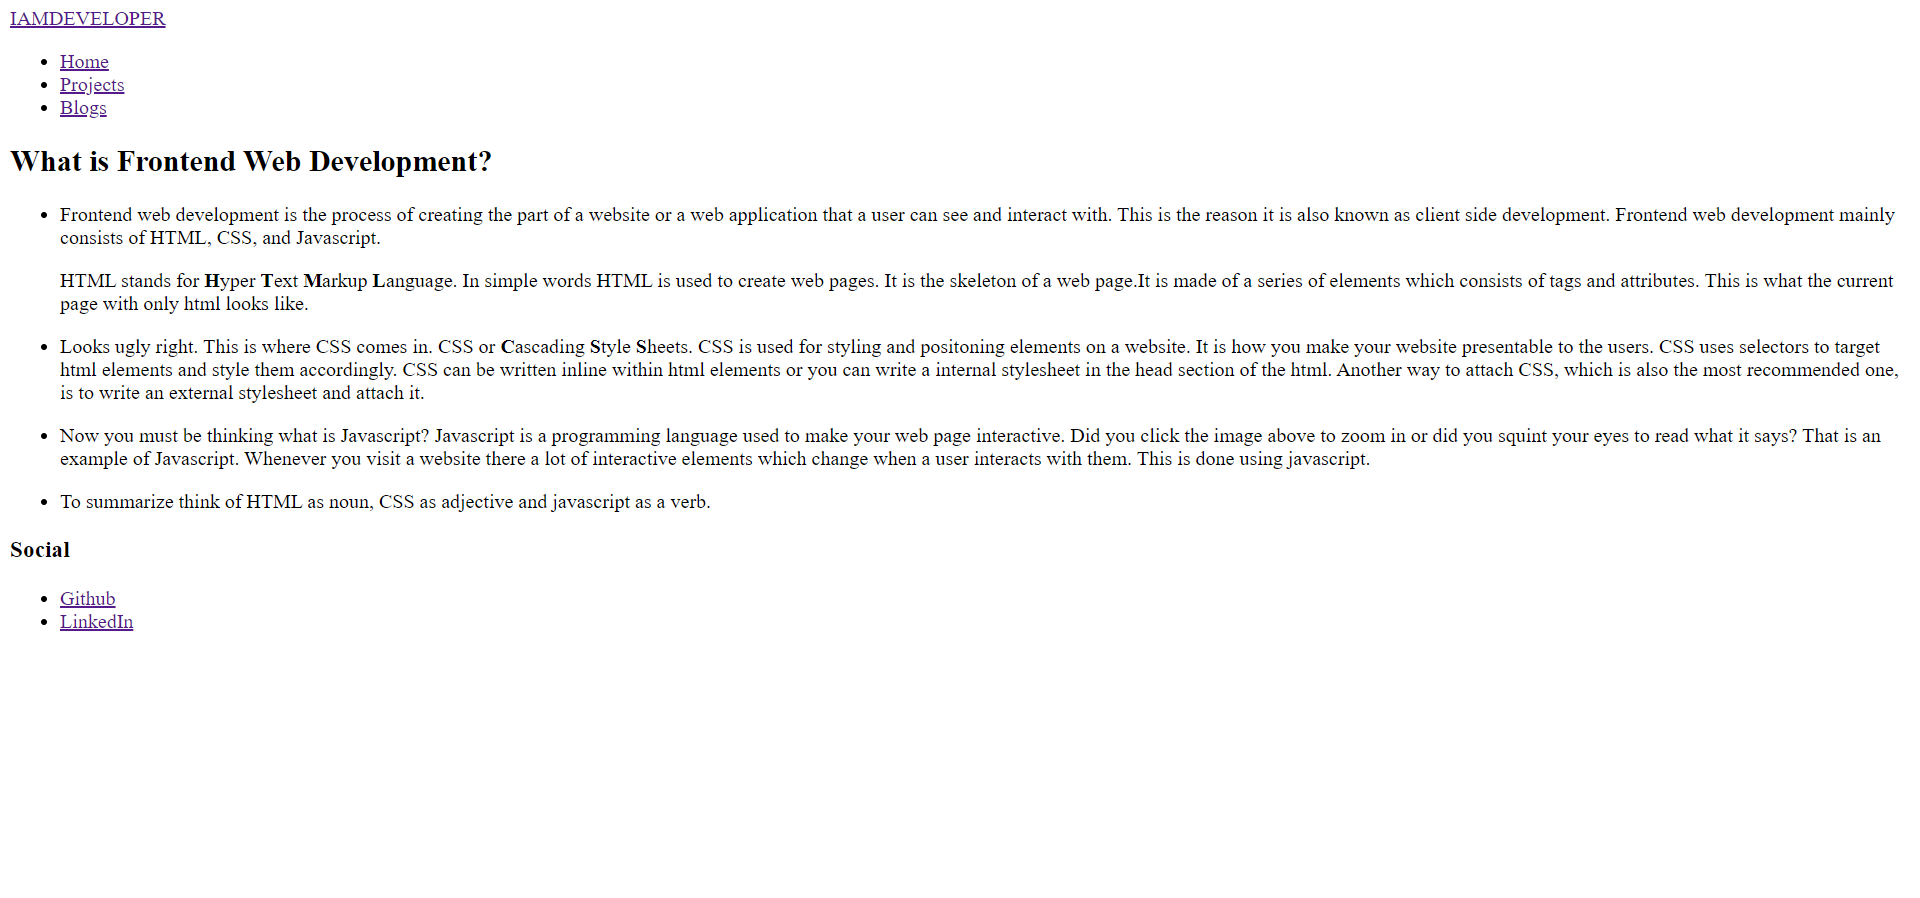
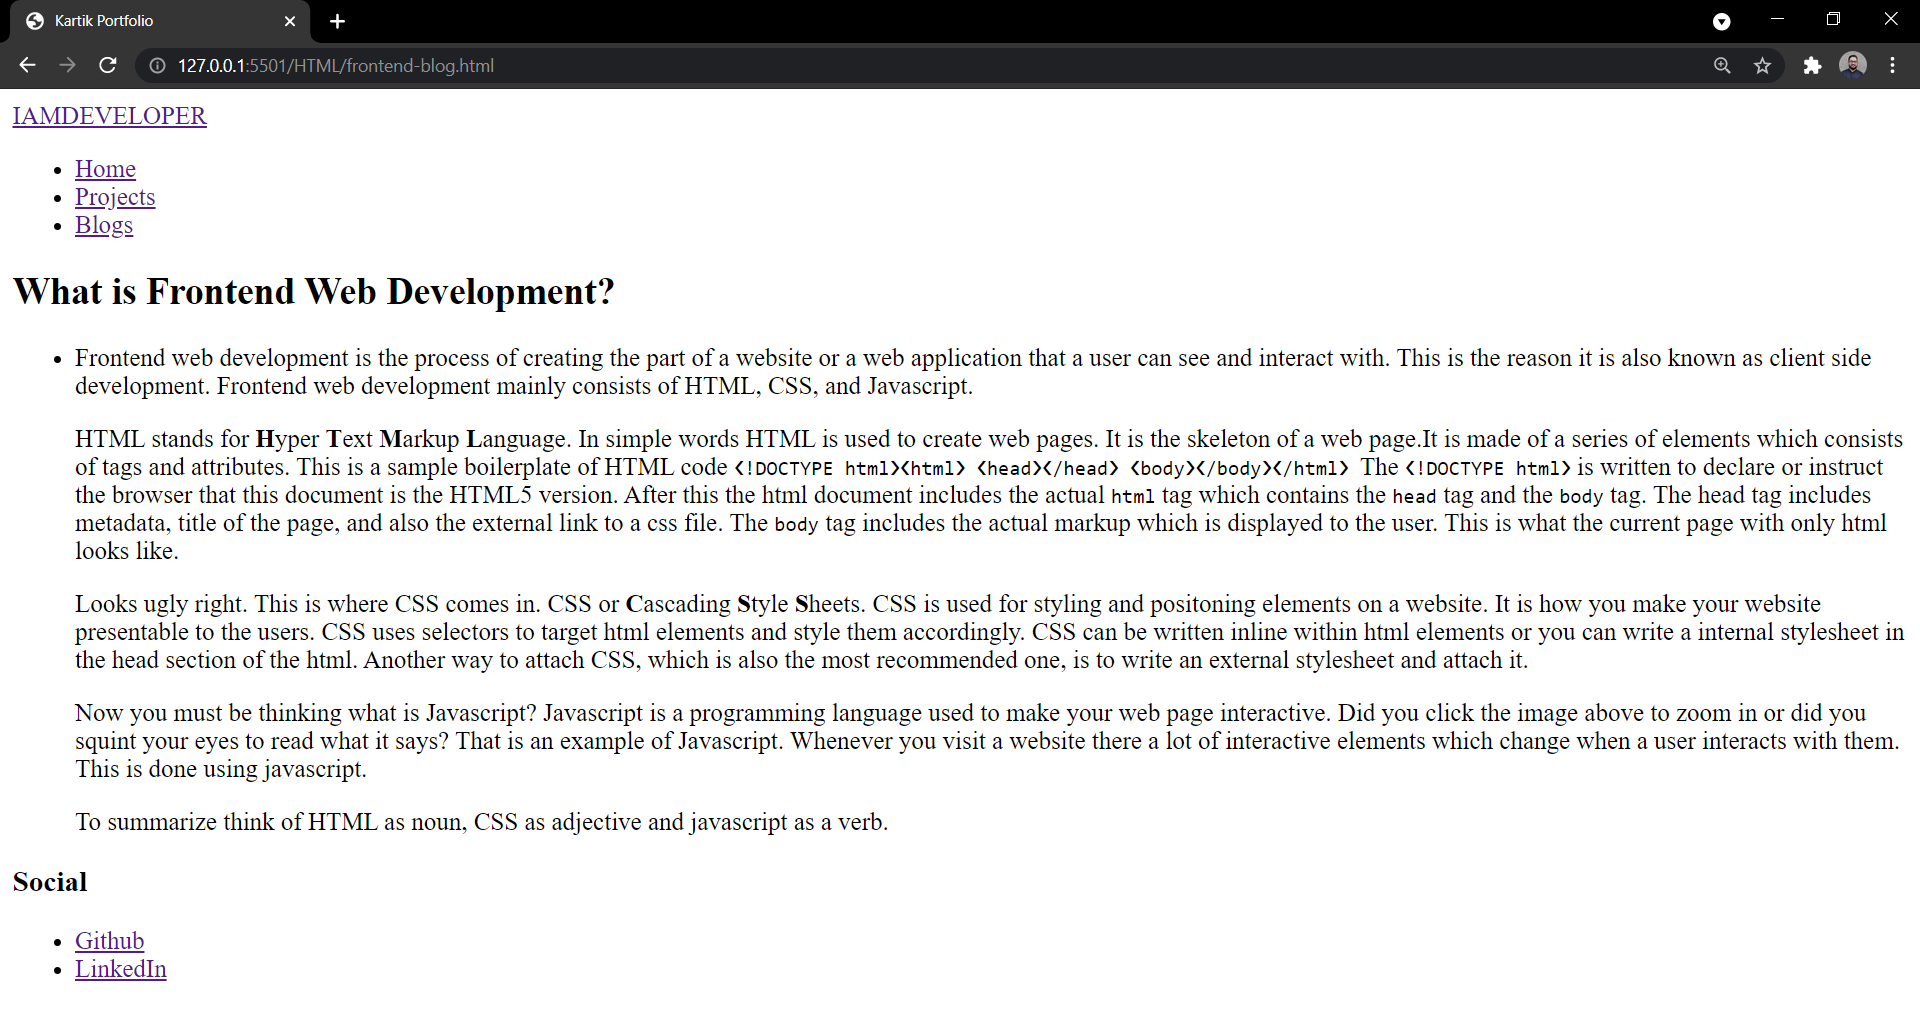
docs
edited frontend blog

Changed region(s): [[0.0, 0.0, 1.0, 0.8107], [0.0312, 0.9042, 0.0938, 0.9666], [0.0, 0.8419, 0.0625, 0.8731]]

diff --git a/HTML/frontend-blog.html b/HTML/frontend-blog.html
@@ -36,28 +36,68 @@
 						<p>
 							HTML stands for <b>H</b>yper <b>T</b>ext <b>M</b>arkup <b>L</b>anguage. In simple
 							words HTML is used to create web pages. It is the skeleton of a web page.It is made of
-							a series of elements which consists of tags and attributes. This is what the current
-							page with only html looks like.
+							a series of elements which consists of tags and attributes. This is a sample
+							boilerplate of HTML code
+							<code class="code-block">
+								<span class="code-block__span">&#10094;!DOCTYPE html&#10095;</span
+								><span class="code-block__span">&#10094;html&#10095;</span
+								><span class="code-block__span"> &#10094;head&#10095;</span
+								><span class="code-block__span">&#10094;/head&#10095;</span
+								><span class="code-block__span"> &#10094;body&#10095;</span
+								><span class="code-block__span">&#10094;/body&#10095;</span
+								><span class="code-block__span">&#10094;/html&#10095;</span>
+							</code>
+							The <code class="code-block__inline">&#10094;!DOCTYPE html&#10095;</code> is written
+							to declare or instruct the browser that this document is the HTML5 version. After this
+							the html document includes the actual <code class="code-block__inline">html</code> tag
+							which contains the <code class="code-block__inline">head</code> tag and the
+							<code class="code-block__inline">body</code> tag. The head tag includes metadata,
+							title of the page, and also the external link to a css file. The
+							<code class="code-block__inline">body</code> tag includes the actual markup which is
+							displayed to the user. This is what the current page with only html looks like.
 						</p>
 						<img src="/images/html.png" alt="plain-html" class="container-image" />
 						<figcaption>This is what HTML without CSS would look like</figcaption>
 						<p>
 							Looks ugly right. This is where CSS comes in. CSS or <b>C</b>ascading <b>S</b>tyle
-							<b>S</b>heets. CSS is used for styling and positoning elements on a website. It is how
-							you make your website presentable to the users. CSS uses selectors to target html
+							<b>S</b>heets. CSS is used for styling and positoning elements on a website. CSS uses
+							selectors like a tag selector, class selector, or an id selector to target html
 							elements and style them accordingly. CSS can be written inline within html elements or
 							you can write a internal stylesheet in the head section of the html. Another way to
 							attach CSS, which is also the most recommended one, is to write an external stylesheet
-							and attach it.
+							and attach it. This is what a CSS style tag looks like
+							<code class="code-block"
+								><span class="code-block__span">body {</span
+								><span class="code-block__span">background-color: red</span>
+								<span class="code-block__span">}</span></code
+							>
+							This code above will set the body element's background color to red. There are also
+							CSS frameworks online like Bootstrap, Semantic UI, or Bulma which makes design easy.
+							These frameworks are pre-written libraries which can be used by linking them to the
+							HTML file and just using the pre-written CSS class names to style the desired element.
 						</p>
 						<p>
 							Now you must be thinking what is Javascript? Javascript is a programming language used
-							to make your web page interactive. Did you click the image above to zoom in or did you
-							squint your eyes to read what it says? That is an example of Javascript. Whenever you
-							visit a website there a lot of interactive elements which change when a user interacts
-							with them. This is done using javascript.
+							to make your web page interactive. Did you click the image above to zoom in? If not
+							give it a try. That is an example of Javascript. Whenever you visit a website there
+							are a lot of interactive elements which change when a user interacts with them, like
+							clicking a button or logging into your favourite social media account or using the
+							search bar in an e-commerce website etc. This is all done using javascript. Javascript
+							targets elements and uses logic to make the element interact when a user interacts
+							with them. This is how a typical javascript selector looks like
+							<code class="code-block"
+								><span class="code-block__span"
+									>var varName = document.querySelector('selector');</span
+								></code
+							>
+							Javascript also uses frameworks and libraries like React.js, Angular, or Vue which
+							allows easier development of web applications.
 						</p>
-						<p>To summarize think of HTML as noun, CSS as adjective and javascript as a verb.</p>
+						<p>
+							To summarize HTML makes the skeleton of a webpage or a web application, CSS styles the
+							html and makes it presentable, and javascript makes it interactive. These three
+							complete the front-end part of the web.
+						</p>
 					</section>
 				</li>
 			</ul>

diff --git a/main.css b/main.css
@@ -3,7 +3,7 @@
 	--primary-color: #00b0ff;
 	--white-color: #fff;
 	--bold: 800;
-	--secondary-color: #edf2f4;
+	--secondary-color: #ecf1f3;
 }
 
 body {
@@ -145,6 +145,7 @@ body {
 
 .project-list {
 	list-style: none;
+	padding: 0;
 }
 
 .project-list li {
@@ -177,4 +178,26 @@ body {
 
 .open {
 	display: block;
+}
+
+.code-block {
+	display: block;
+	margin: 0.5rem 0;
+	padding: 0.5rem;
+	background-color: #eee;
+	border: 2px solid #999;
+}
+
+.code-block__inline {
+	background-color: #eee;
+	border: 2px solid #999;
+	padding: 0 0.5rem;
+}
+
+.code-block__span {
+	display: block;
+}
+
+figcaption {
+	text-align: center;
 }
